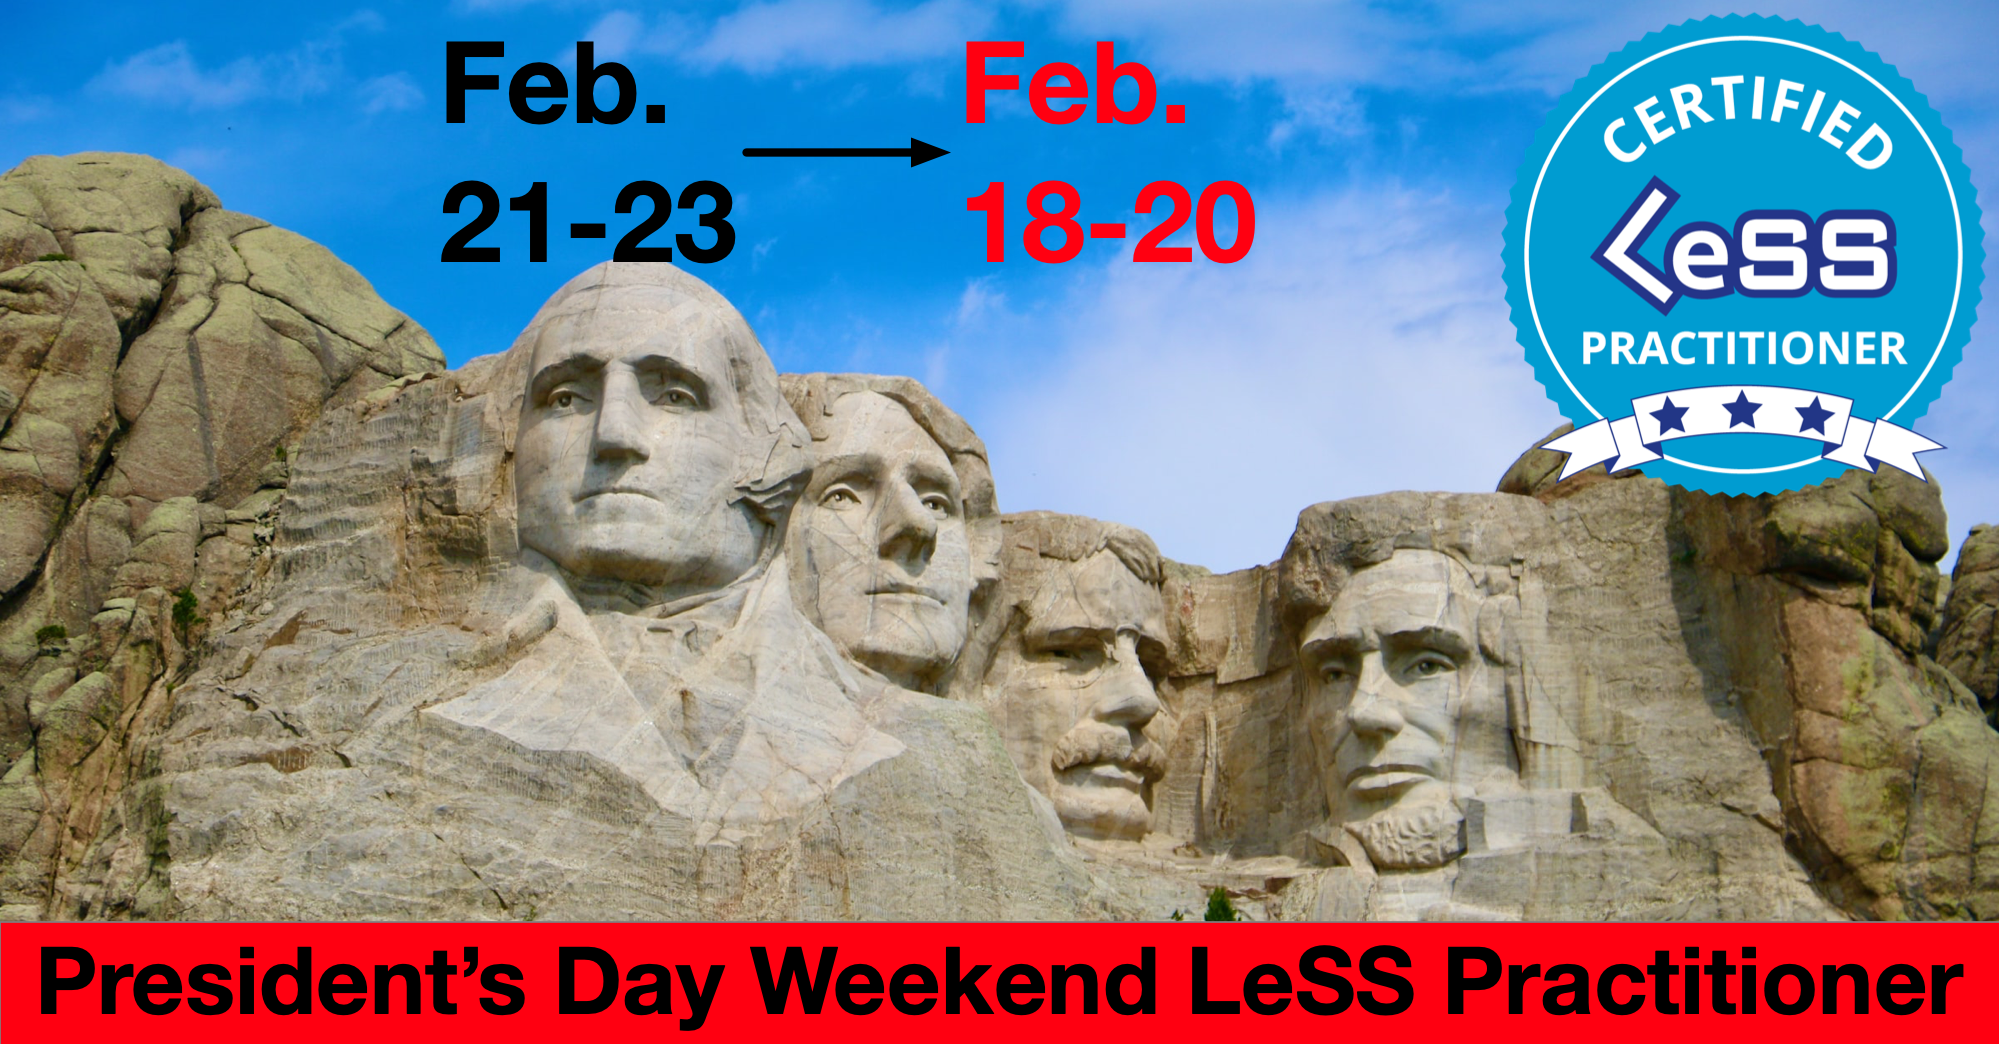
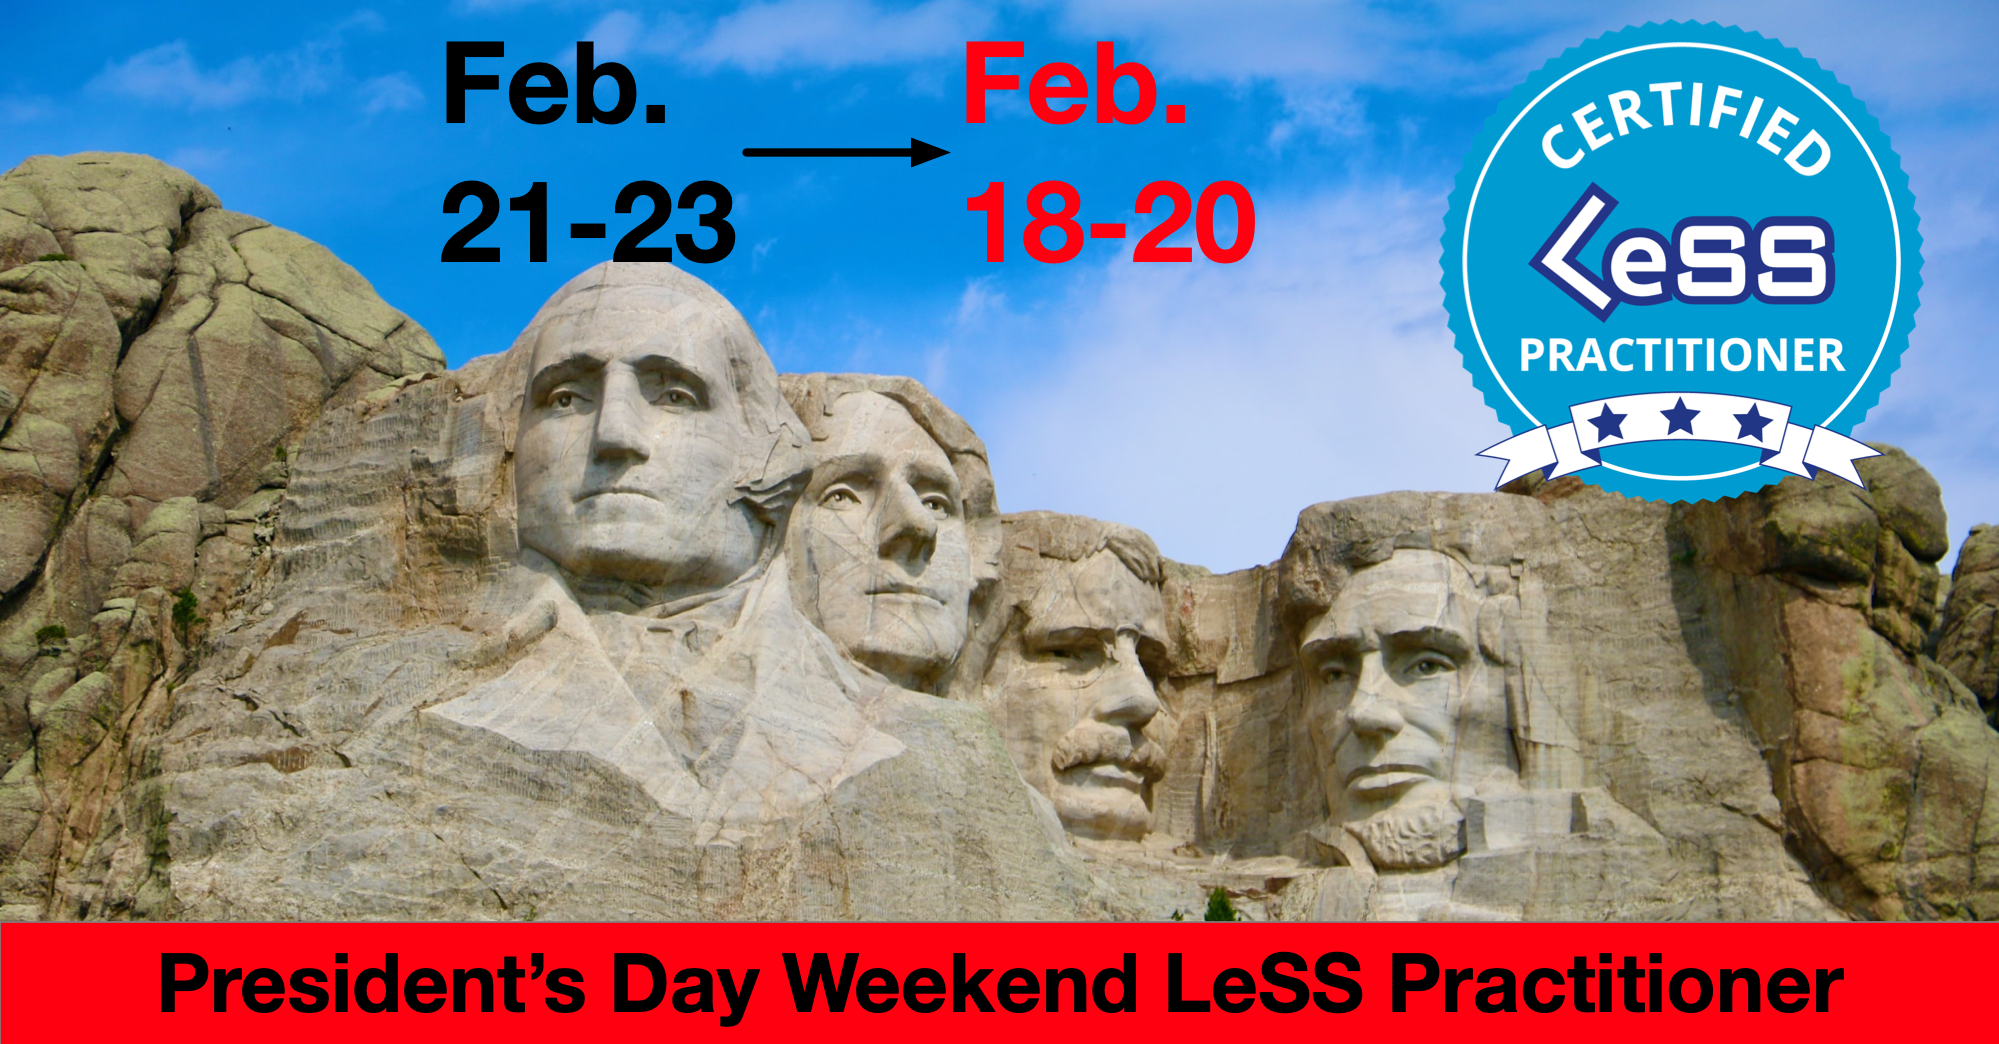
tweaked header image. I also added venue update info

Changed region(s): [[0.7134, 0.0, 0.9925, 0.4904], [0.0, 0.8889, 0.9925, 1.0]]

diff --git a/clp/atlanta.md b/clp/atlanta.md
@@ -34,6 +34,8 @@ Agile Carpentry
 
 # Training Venue Details
 
+*UPDATE: I don't yet know if the venue will need to change with the new dates, hopefully not. I plan to keep the course in the Buckhead area, or potentially the Perimeter area just to the north if I must. I have sent a RFQ to over two dozen hotels in the Buckhead and Perimeter area, one of which will surely have last minute space available.*
+
 [Hyatt Place Atlanta/Buckhead](https://www.hyatt.com/en-US/hotel/georgia/hyatt-place-atlanta-buckhead/atlzb)  
 3242 Peachtree Road NE, Atlanta, Georgia, United States, 30305  
 
